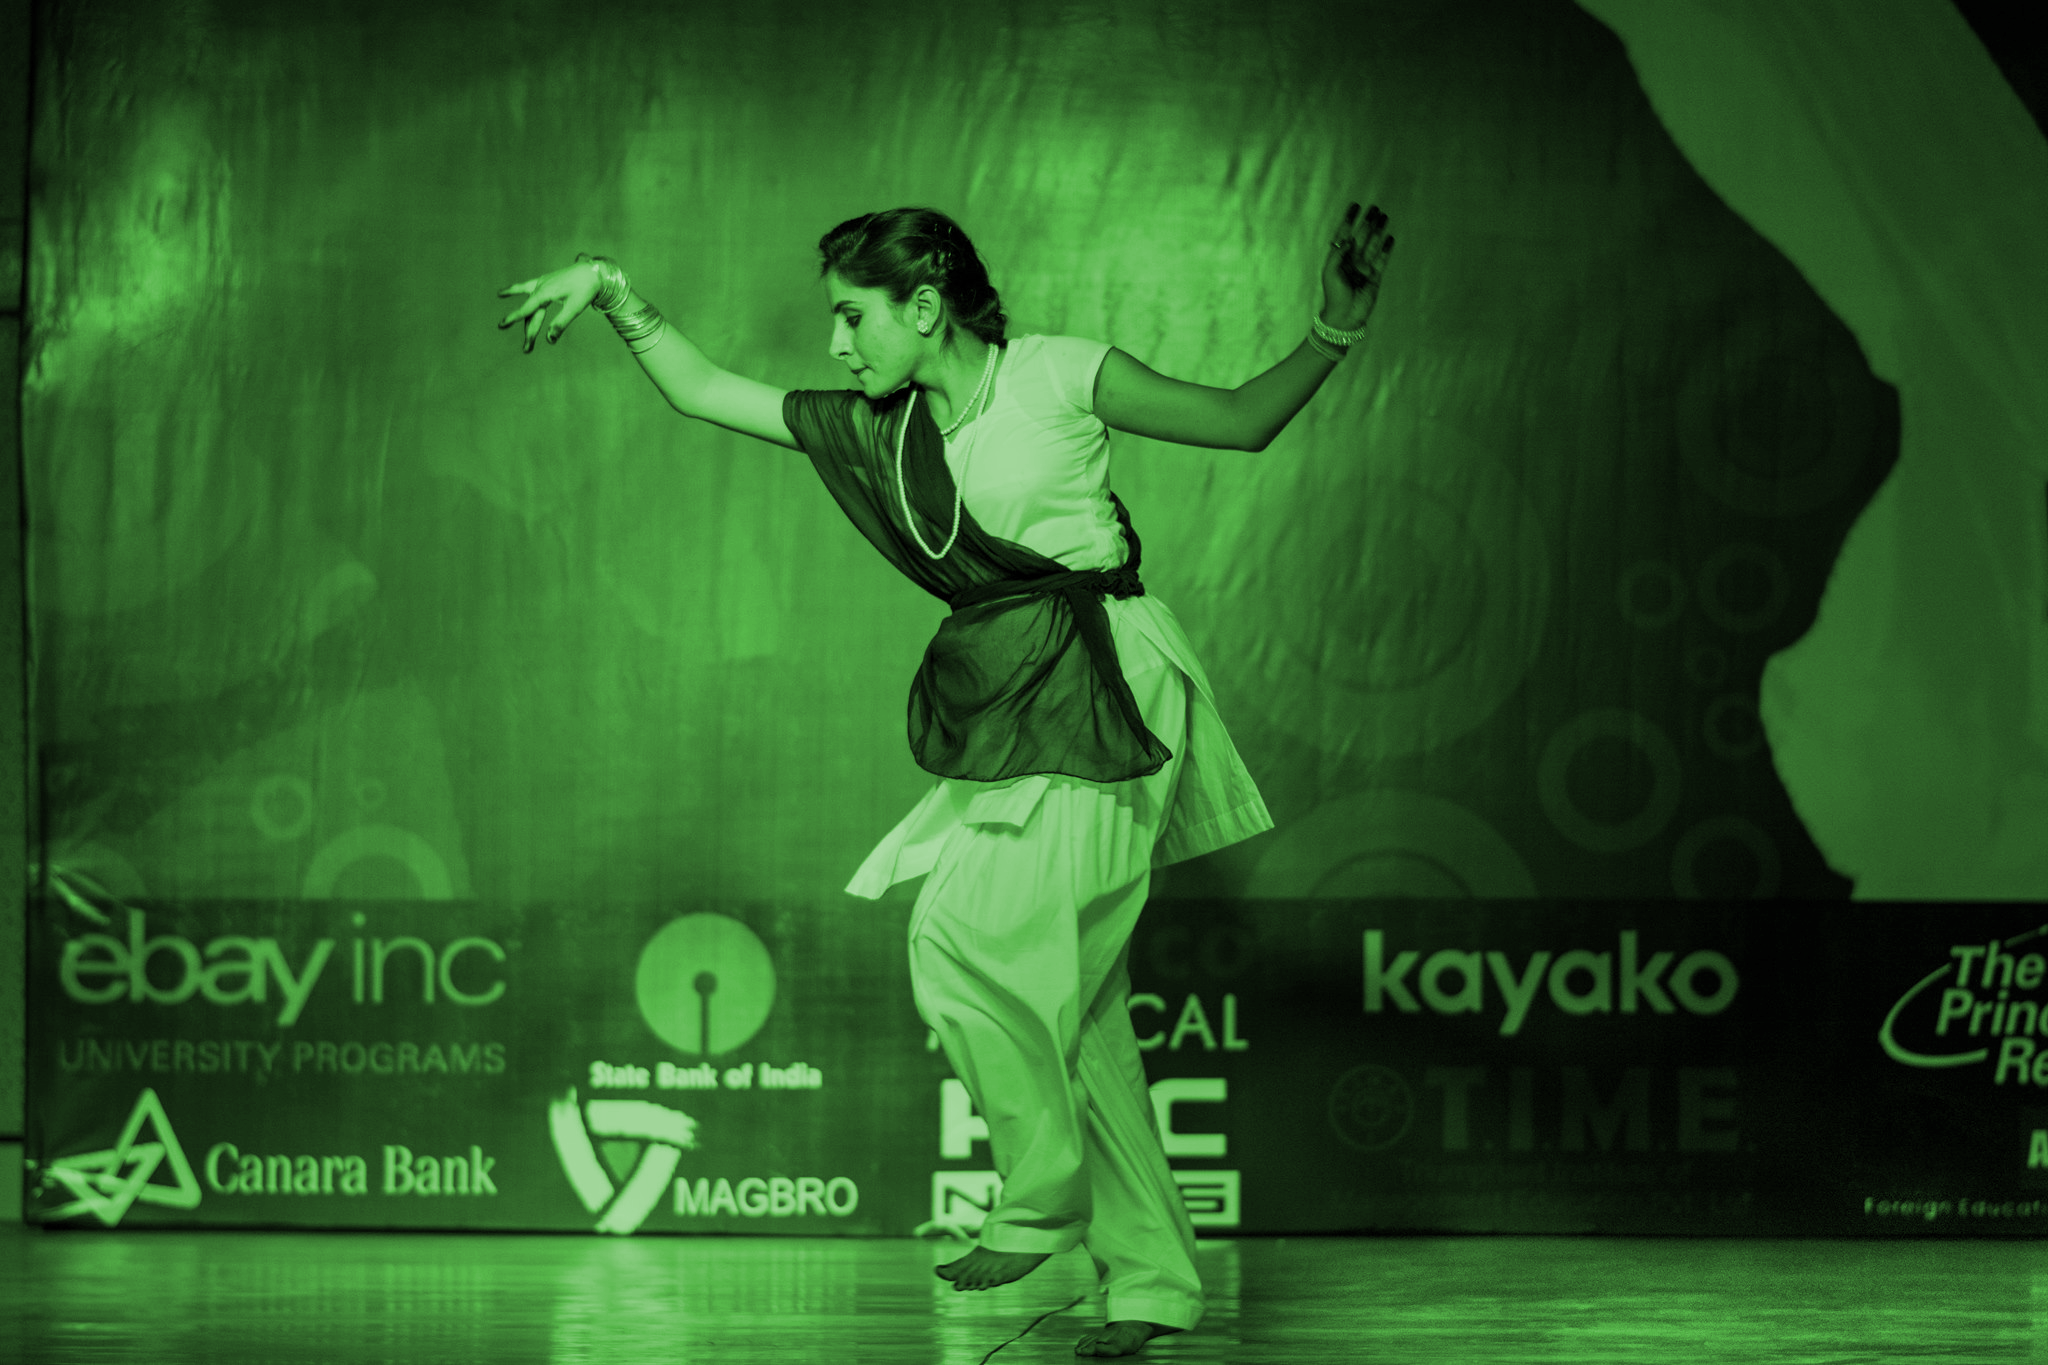
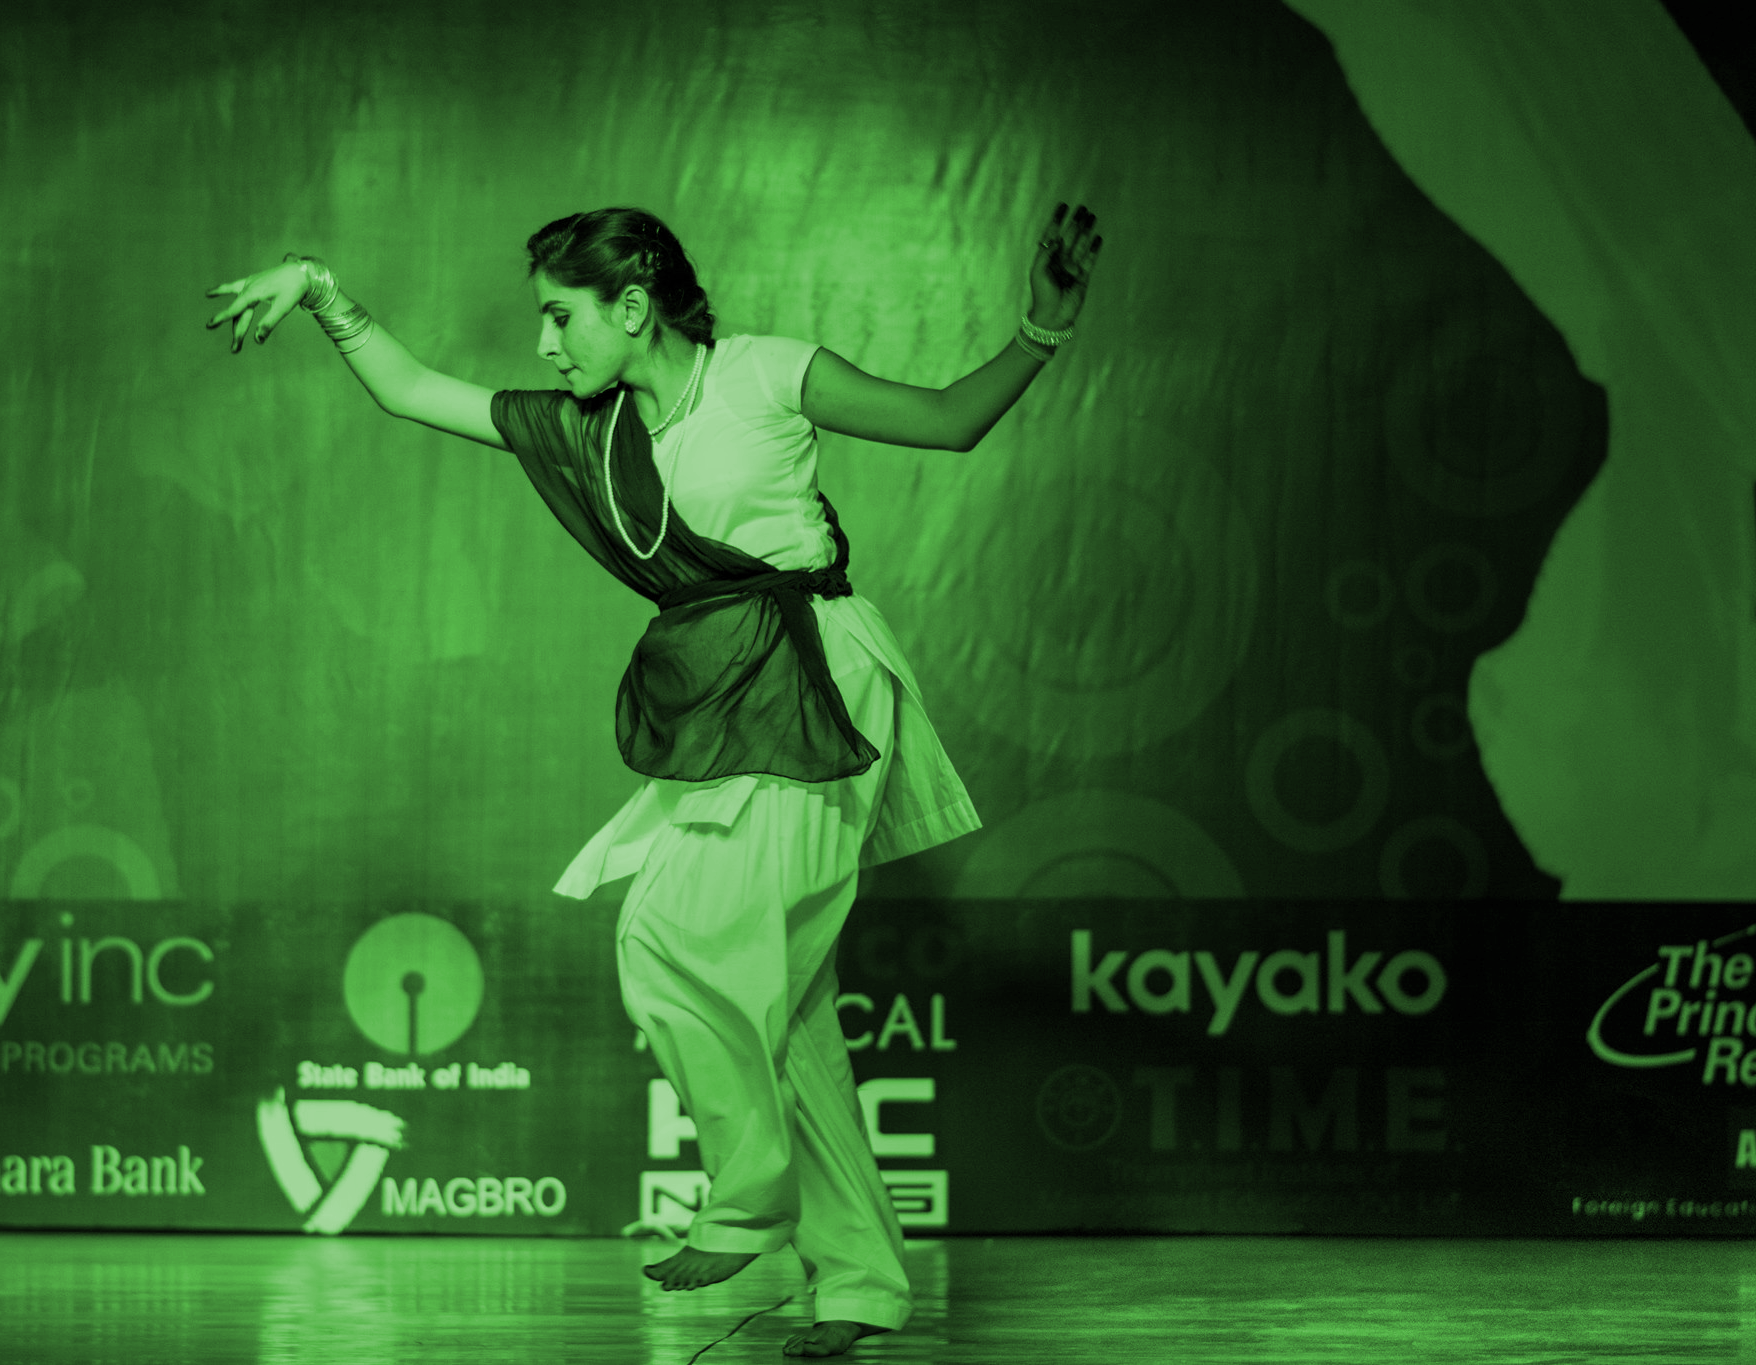
Events Images changed
I cropped the images, need to check on different monitors.

diff --git a/sponsors.html b/sponsors.html
@@ -13,6 +13,7 @@
         margin-top: 65px;
         width:90%;
     }
+        
     /*#sponsorsHead {
         font-size:50px;
         background-color:#FC0; 
@@ -21,6 +22,7 @@
         width:100%;
         text-shadow:3px 3px 3px #000;
     }*/
+        
     </style>
 
     <link rel="stylesheet" href="css/animate.css">
@@ -64,7 +66,13 @@
             --></a>
         </div>
     </div>
-    <div > 
+        
+        <div class = "sponsorHeading">
+            <h1>
+                Past Sponors
+            </h1>
+        </div>
+    <div class = "mySponsorTable"> <!-- This is a new class @ananya 3 Nov 2015-->
     <table border="0" align="center" width="80%" id="sponsors" cellpadding="4">
     <tr align="center">
     <td><img src="images/sponsors/tribune.jpg"></td>

diff --git a/styles/sponsors.css b/styles/sponsors.css
@@ -1,3 +1,8 @@
+@font-face {
+    font-family: DistPro;
+    src: url('../fonts/DistProTh.otf');
+}
+
 body {
 	background-image: url('/images/sponsor.png');
 }
@@ -6,5 +11,20 @@ body::-webkit-scrollbar {
 	width: 0px;
 }
 .mySponsorTable {
-    padding-top: 10vh;
+    padding-bottom: 10vh;
+    margin: 0;
+    padding-top: 0;
+}
+
+.sponsorHeading {
+    text-align: center;
+    padding-top: 5vh;
+    margin: 0;
+
+    /* get a cool font */
+    font-family: DistPro;
+}
+
+h1 {
+    font-size: 5em;
 }

diff --git a/styles/styles.css b/styles/styles.css
@@ -205,3 +205,4 @@ body {
 .fullpage {
 	height: 100vh;
 }
+
